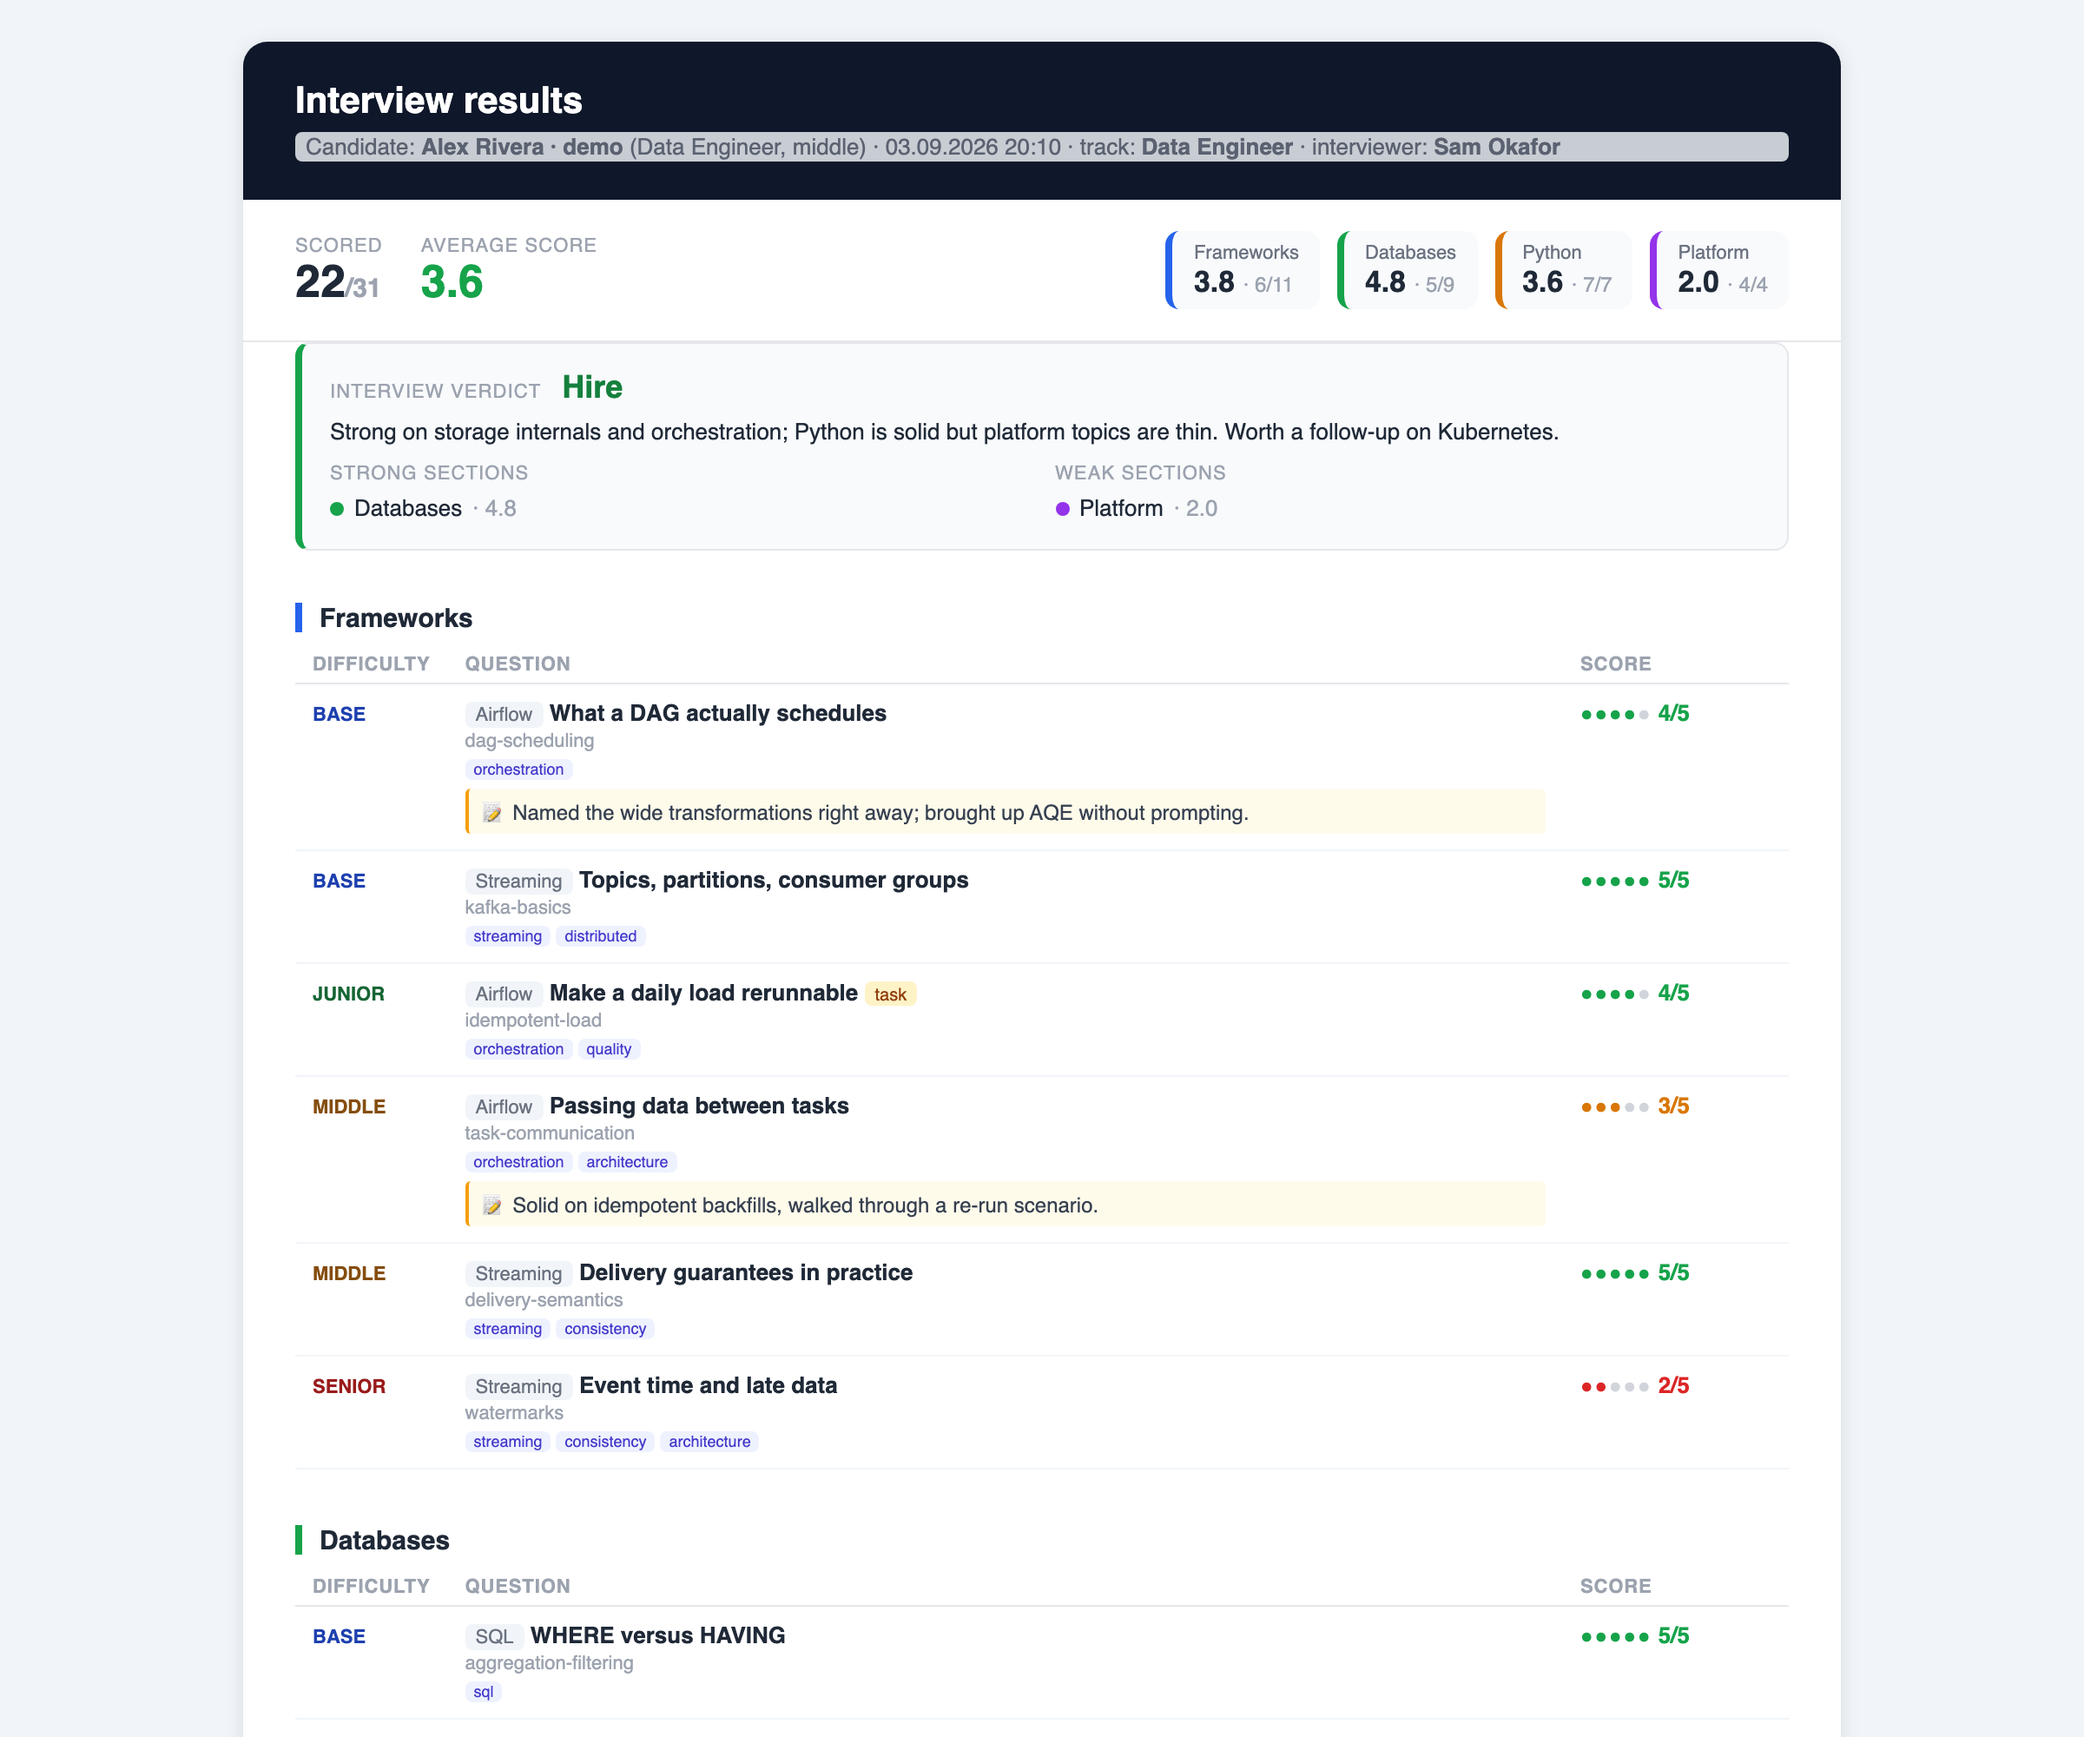
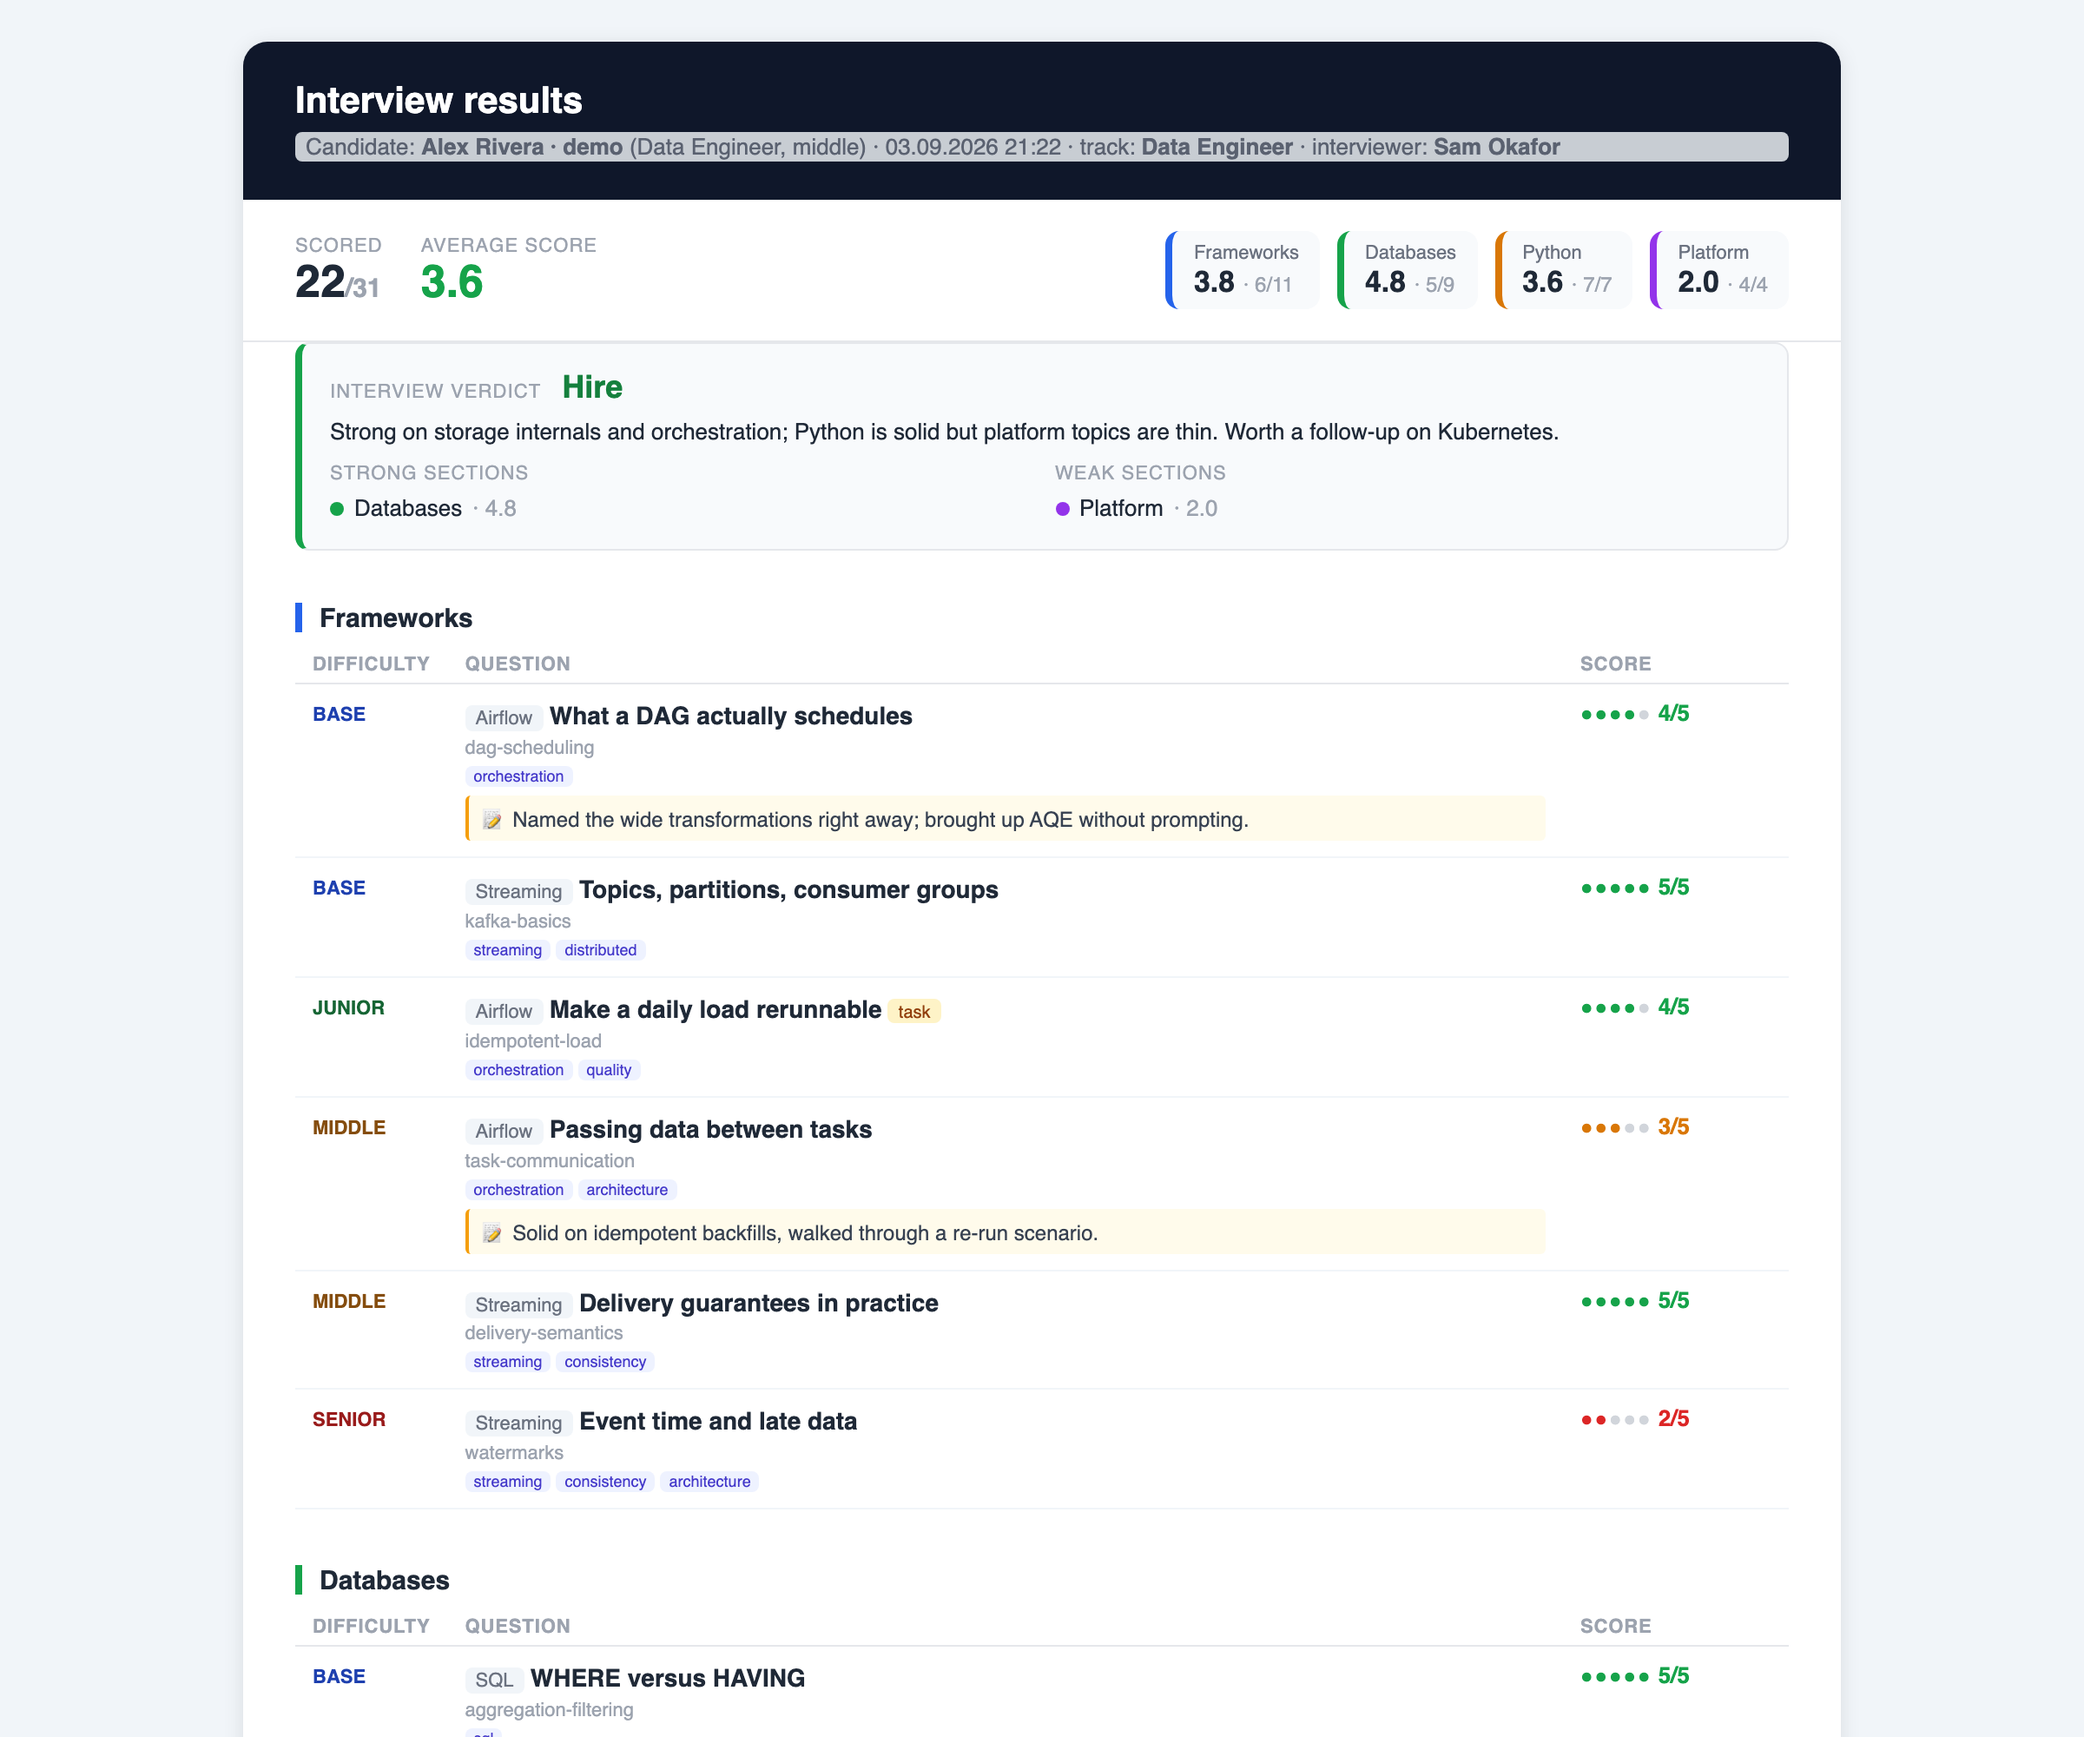
fix(report): заголовки вопросов 14/700 — ряд читается ровно
На 13/600 строки из одних строчных («Topics, partitions, consumer groups») выглядели мельче
соседних с заглавными; теперь как в экспорте банка. Скриншоты пересняты.

Claude-Session: https://claude.ai/code/session_01GFdruj47K6Ux6Ns1TzcL3m

diff --git a/frontend/src/report.ts b/frontend/src/report.ts
@@ -166,7 +166,9 @@ export function buildReportHtml(
   .c-diff { width: 84px; } .c-score { width: 130px; white-space: nowrap; }
   .diff { font-size: 11px; text-transform: uppercase; font-weight: 700; }
   .sub { font-size: 11px; color: #6b7280; background: #f1f5f9; padding: 1px 6px; border-radius: 4px; }
-  .qt { font-weight: 600; }
+  /* Заголовок вопроса — как в экспорте банка (14/700): на 13/600 строки из одних строчных
+     («Topics, partitions, consumer groups») читались мельче соседних с заглавными. */
+  .qt { font-weight: 700; font-size: 14px; line-height: 1.35; }
   .kind { font-size: 10px; color: #92400e; background: #fef3c7; padding: 1px 6px; border-radius: 4px; }
   .topic { font-size: 11px; color: #9ca3af; margin-top: 2px; }
   .qnote { font-size: 12px; color: #374151; background: #fffbeb; border-left: 2px solid #f59e0b; padding: 3px 7px; margin-top: 5px; border-radius: 3px; white-space: pre-wrap; }
